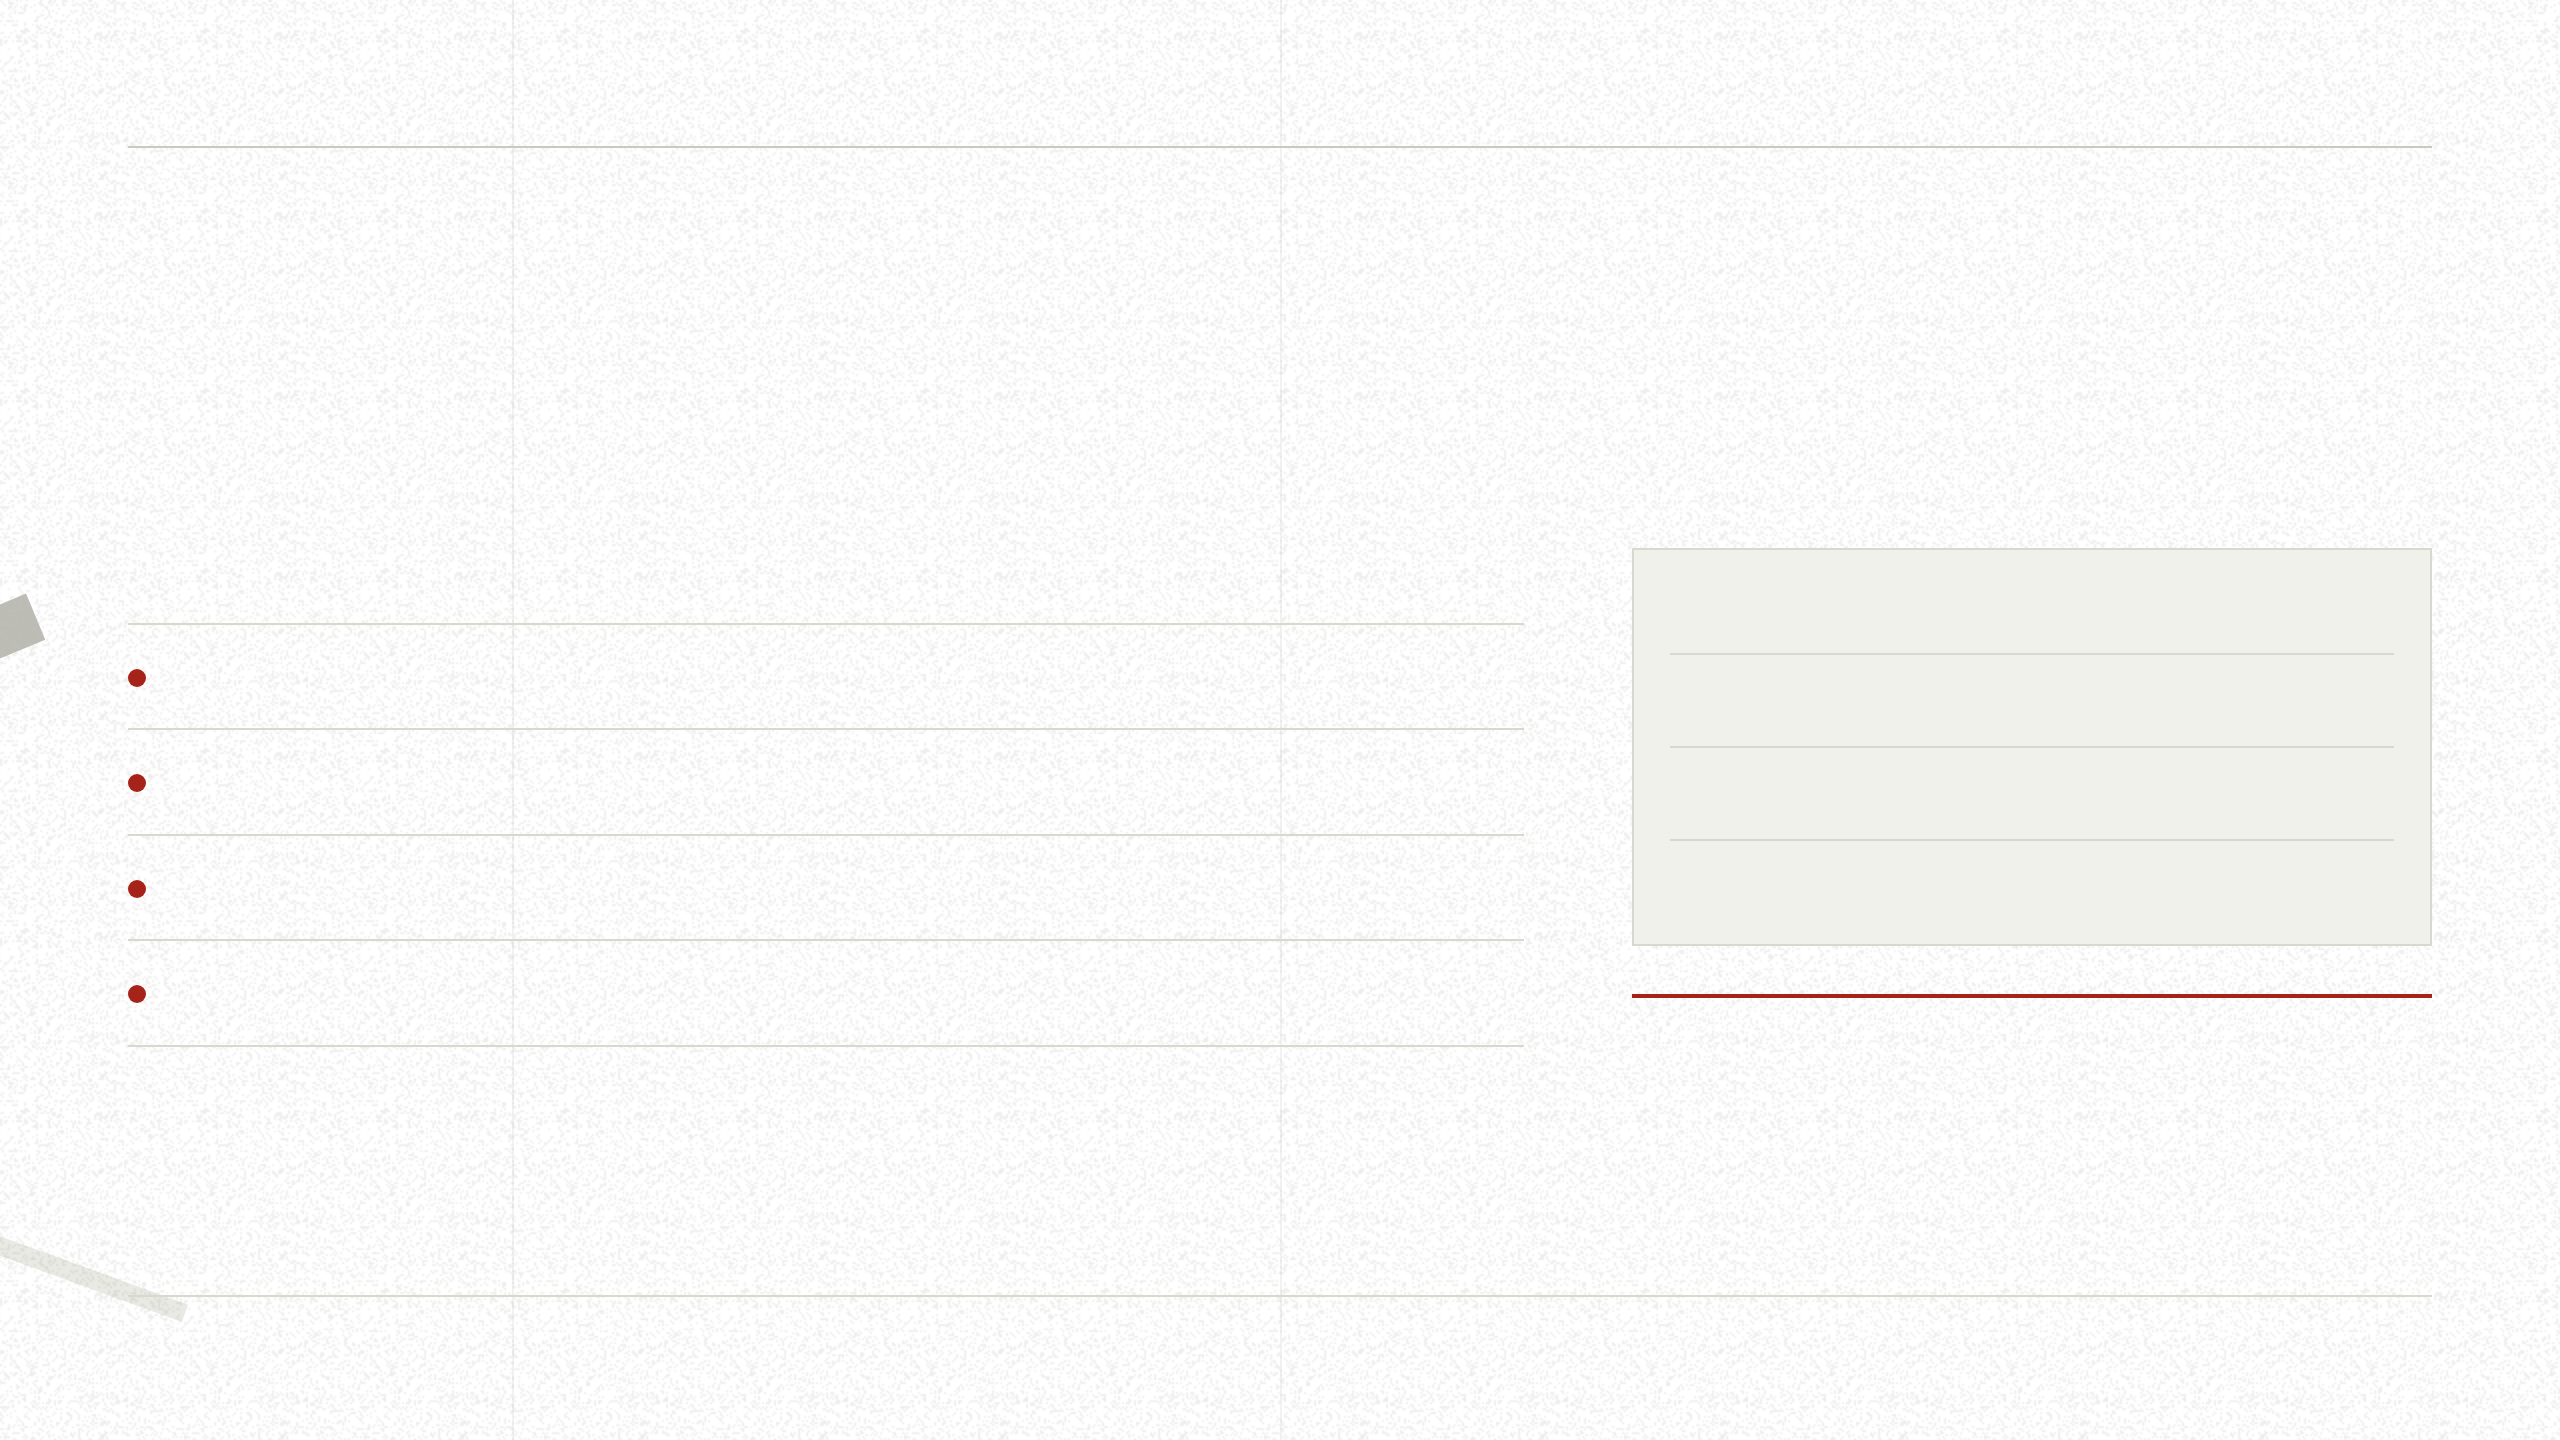
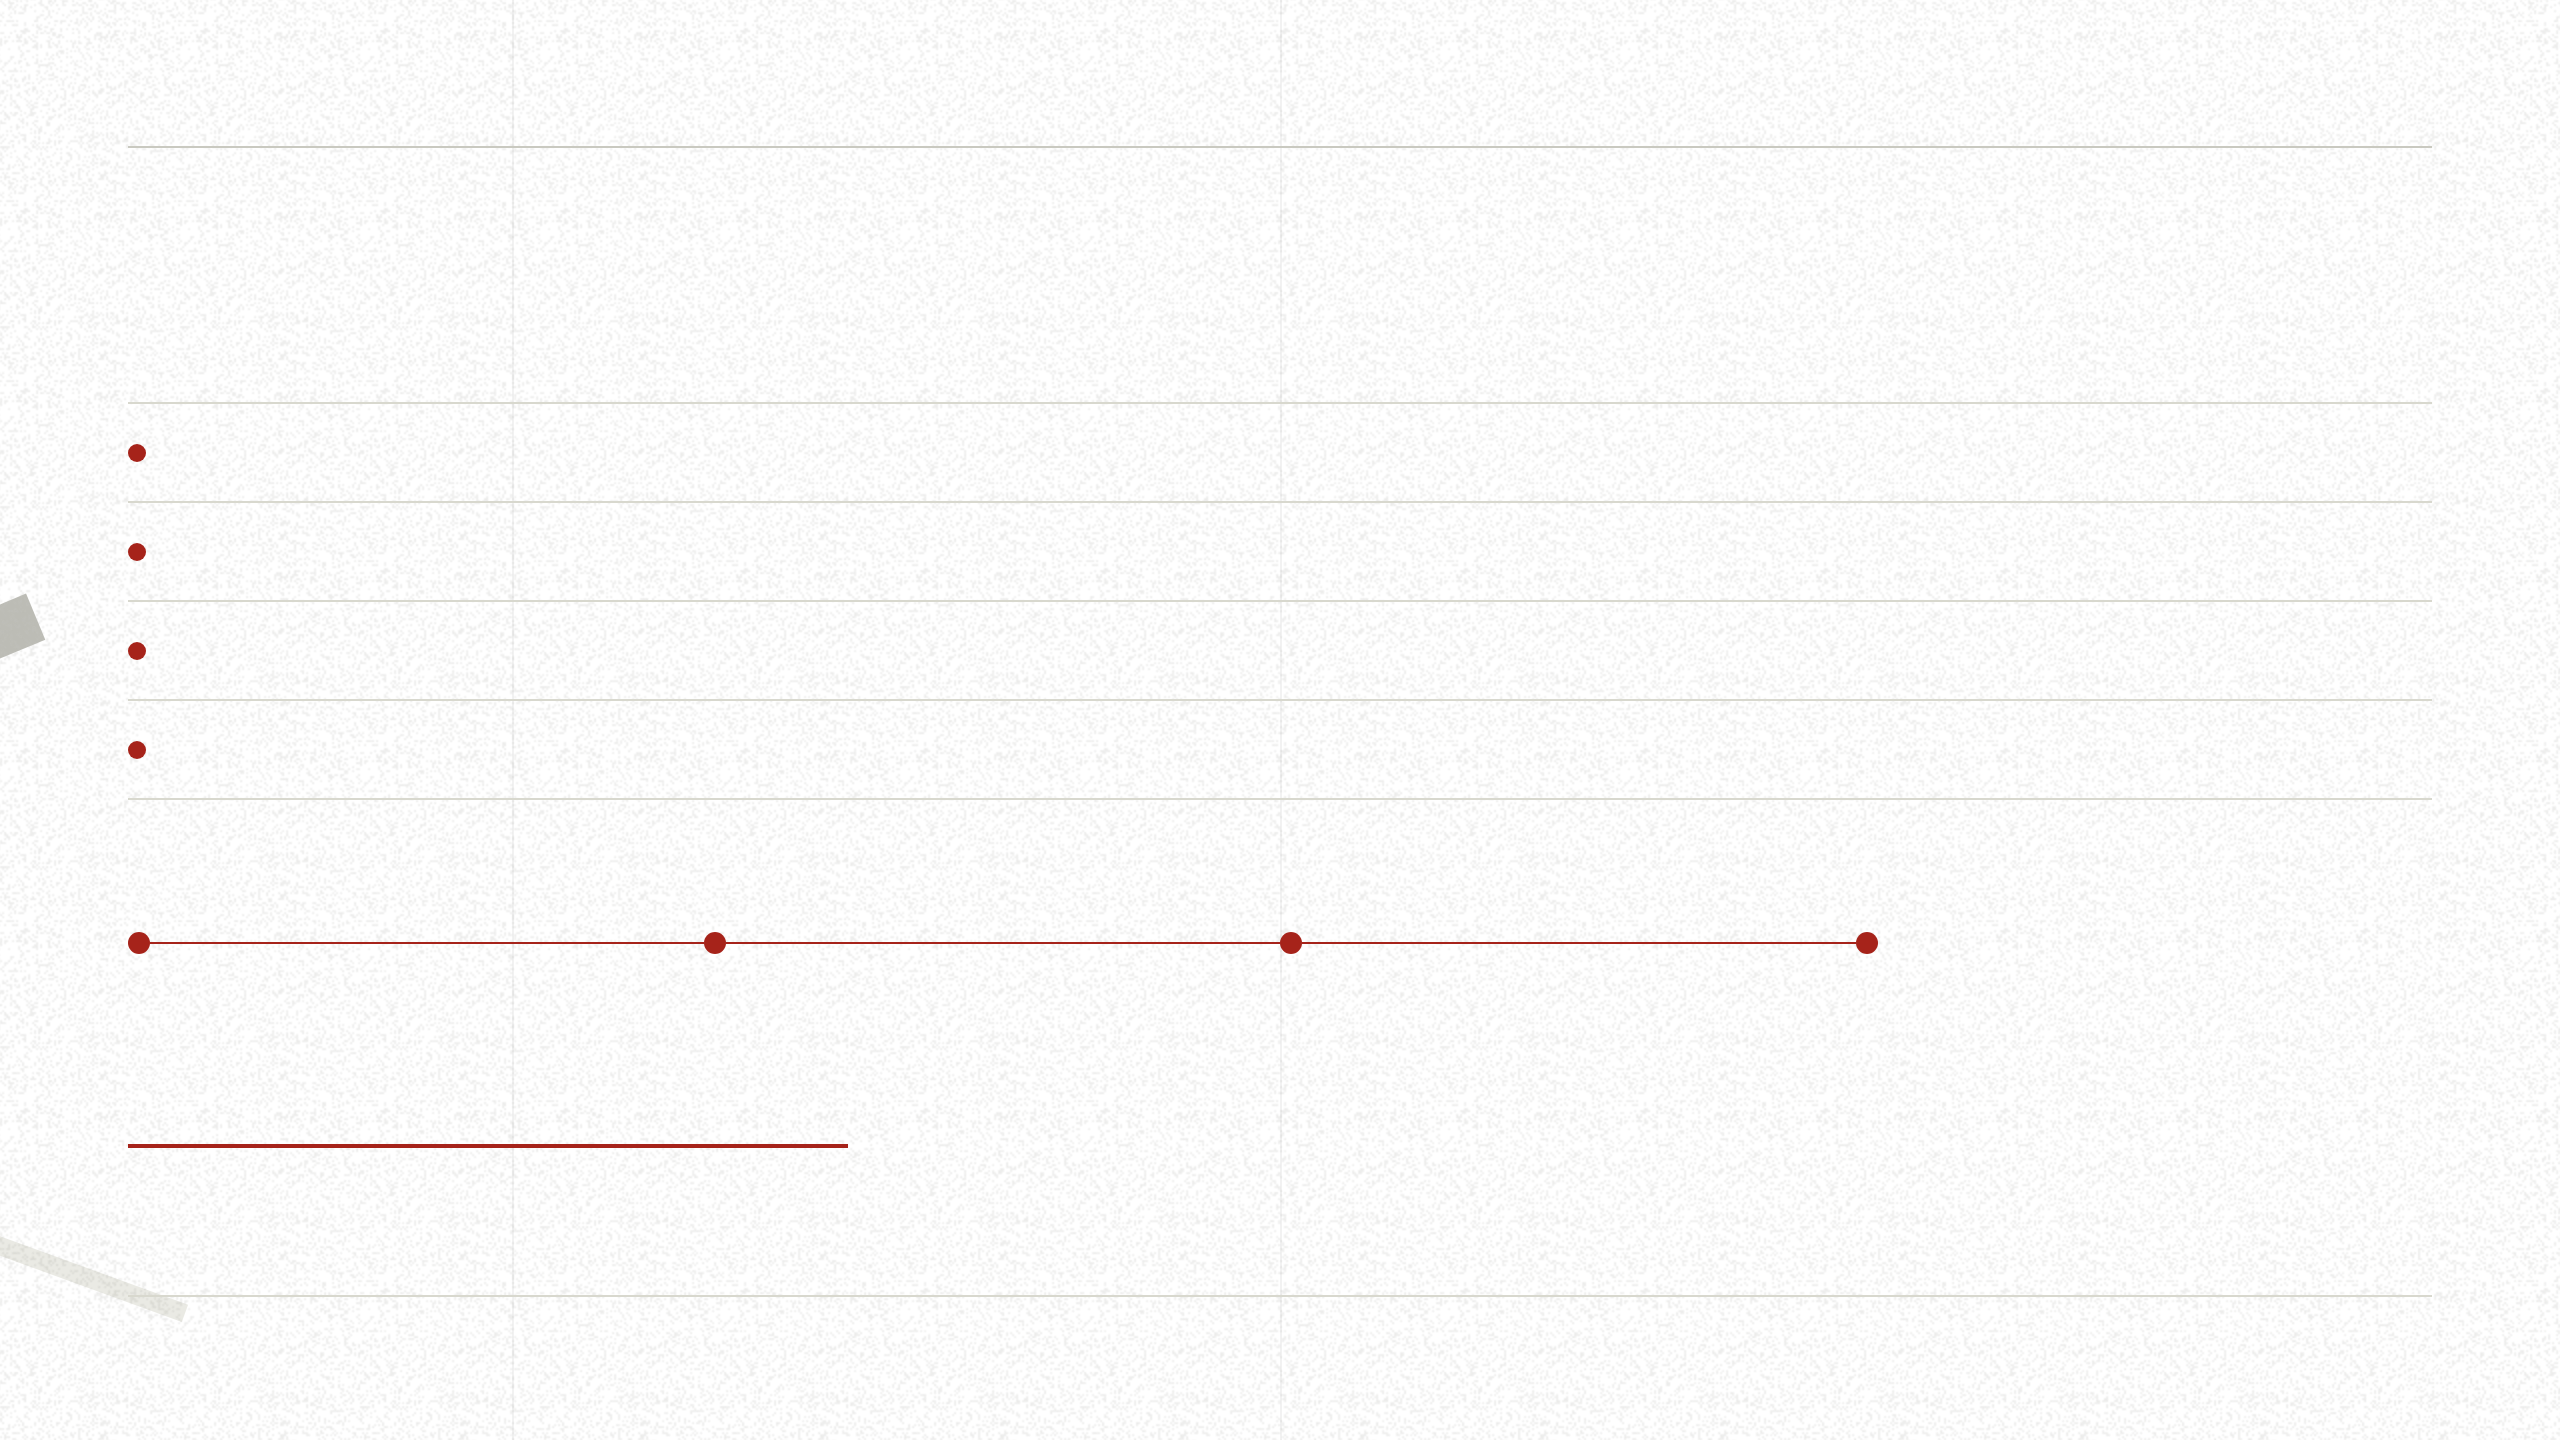
Set the four next steps as a left-to-right timeline
Mary's note on the closing slide: the four steps read as a list rather than as a
sequence. They now run horizontally across the full measure as a timeline, dots on
a connecting rule with the ordinal and the step name beneath each, in the same dot
language the data pages use.

The connector stops at the last dot rather than running to the page edge, so the
sequence visibly ends at Scale. The dot and its rule sit in their own band above
the ordinals; at first pass they shared a baseline and read as "1", "2".

Steps land on even quarters at 64, 352, 640 and 928.

Changed region(s): [[0.5, 0.625, 0.5312, 0.6562], [0.25, 0.625, 0.2812, 0.6562]]

diff --git a/ndot/explorations/publisher-deck/deck.html b/ndot/explorations/publisher-deck/deck.html
@@ -84,7 +84,7 @@ body{
 
 /* collage layers sit under the type */
 .art{position:absolute; left:0; top:0; width:100%; height:100%; pointer-events:none; z-index:0}
-.folio,.foot,.cover,.toc,.divider,.head,.main,.two,.compress,.under,.retain,.shift,.sol,.caps,.next,.terms{position:relative; z-index:1}
+.folio,.foot,.cover,.toc,.divider,.head,.main,.two,.compress,.under,.retain,.shift,.sol,.caps,.next,.fit,.terms{position:relative; z-index:1}
 
 /* ---------- chrome ---------- */
 .folio{display:flex; align-items:center; justify-content:space-between; gap:20px; flex:none; padding-bottom:12px; border-bottom:1px solid var(--line-2)}
@@ -330,6 +330,23 @@ h2{font-size:41px; line-height:1.08}
 .tbl td.win{color:var(--accent-live); font-weight:600; font-size:13px}
 .tbl tbody tr:last-child td,.tbl tbody tr:last-child th{border-bottom:none}
 .tbl-note{font-size:12.5px; line-height:1.6; color:var(--mute); margin-top:18px; max-width:94ch}
+
+/* ---------- the fit: checks, then the four steps read left to right ---------- */
+.fit{flex:1; min-height:0; display:flex; flex-direction:column; justify-content:center; gap:34px; padding:10px 0}
+.fit-checks .checks{max-width:none}
+.fit-checks .check{font-size:15px; padding:13px 0}
+
+/* the timeline is a rule with a dot at each step; the dot is the mark, so the
+   sequence is drawn in the same language as the data pages */
+.timeline{list-style:none; margin:0; padding:30px 0 0; display:grid; grid-template-columns:repeat(4,1fr); position:relative}
+.tl-step{position:relative; padding-right:34px}
+.tl-step::before{content:""; position:absolute; left:0; top:-30px; width:11px; height:11px; border-radius:50%; background:var(--accent-live)}
+.tl-step::after{content:""; position:absolute; left:11px; right:0; top:-25px; height:1px; background:var(--accent-live)}
+.tl-step:last-child::after{display:none}
+.tl-n{display:block; font-family:var(--mono); font-weight:600; font-size:12px; letter-spacing:.18em; color:var(--accent-live)}
+.tl-t{display:block; font-family:var(--serif); font-weight:600; font-size:19px; letter-spacing:-.015em; color:var(--ink); margin-top:7px}
+.fit-foot{border-top:2px solid var(--accent-live); padding-top:16px; max-width:360px}
+.fit-foot .contact{margin-top:0; padding-top:0; border-top:none}
 
 /* ---------- 15 &middot; the fit ---------- */
 .next{display:grid; grid-template-columns:1fr 400px; gap:54px; flex:1; min-height:0; align-items:center}
@@ -906,8 +923,8 @@ h2{font-size:41px; line-height:1.08}
     <h2>Is this you? Let's build together.</h2>
   </div>
 
-  <div class="next">
-    <div>
+  <div class="fit">
+    <div class="fit-checks">
       <div class="label" style="margin-bottom:8px">What we look for</div>
       <div class="checks">
         <div class="check"><i></i><span>Unique content and a strong, trusted brand in your category.</span></div>
@@ -916,14 +933,18 @@ h2{font-size:41px; line-height:1.08}
         <div class="check"><i></i><span>Open to owning your audience: advertising, subscription, or both work for us.</span></div>
       </div>
     </div>
-    <div>
-      <div class="label" style="margin-bottom:8px">How we'd start</div>
-      <div class="steps panel">
-        <div class="step"><span class="sn">01</span><div class="st">Discovery call</div></div>
-        <div class="step"><span class="sn">02</span><div class="st">Prototype and demo</div></div>
-        <div class="step"><span class="sn">03</span><div class="st">Pilot launch</div></div>
-        <div class="step"><span class="sn">04</span><div class="st">Scale</div></div>
-      </div>
+
+    <div class="fit-steps">
+      <div class="label" style="margin-bottom:20px">How we'd start</div>
+      <ol class="timeline">
+        <li class="tl-step"><span class="tl-n">01</span><span class="tl-t">Discovery call</span></li>
+        <li class="tl-step"><span class="tl-n">02</span><span class="tl-t">Prototype and demo</span></li>
+        <li class="tl-step"><span class="tl-n">03</span><span class="tl-t">Pilot launch</span></li>
+        <li class="tl-step"><span class="tl-n">04</span><span class="tl-t">Scale</span></li>
+      </ol>
+    </div>
+
+    <div class="fit-foot">
       <div class="contact">
         <div class="cn">Mary Zeng</div>
         <div class="ce">mary.zeng@newsbreak.com</div>
